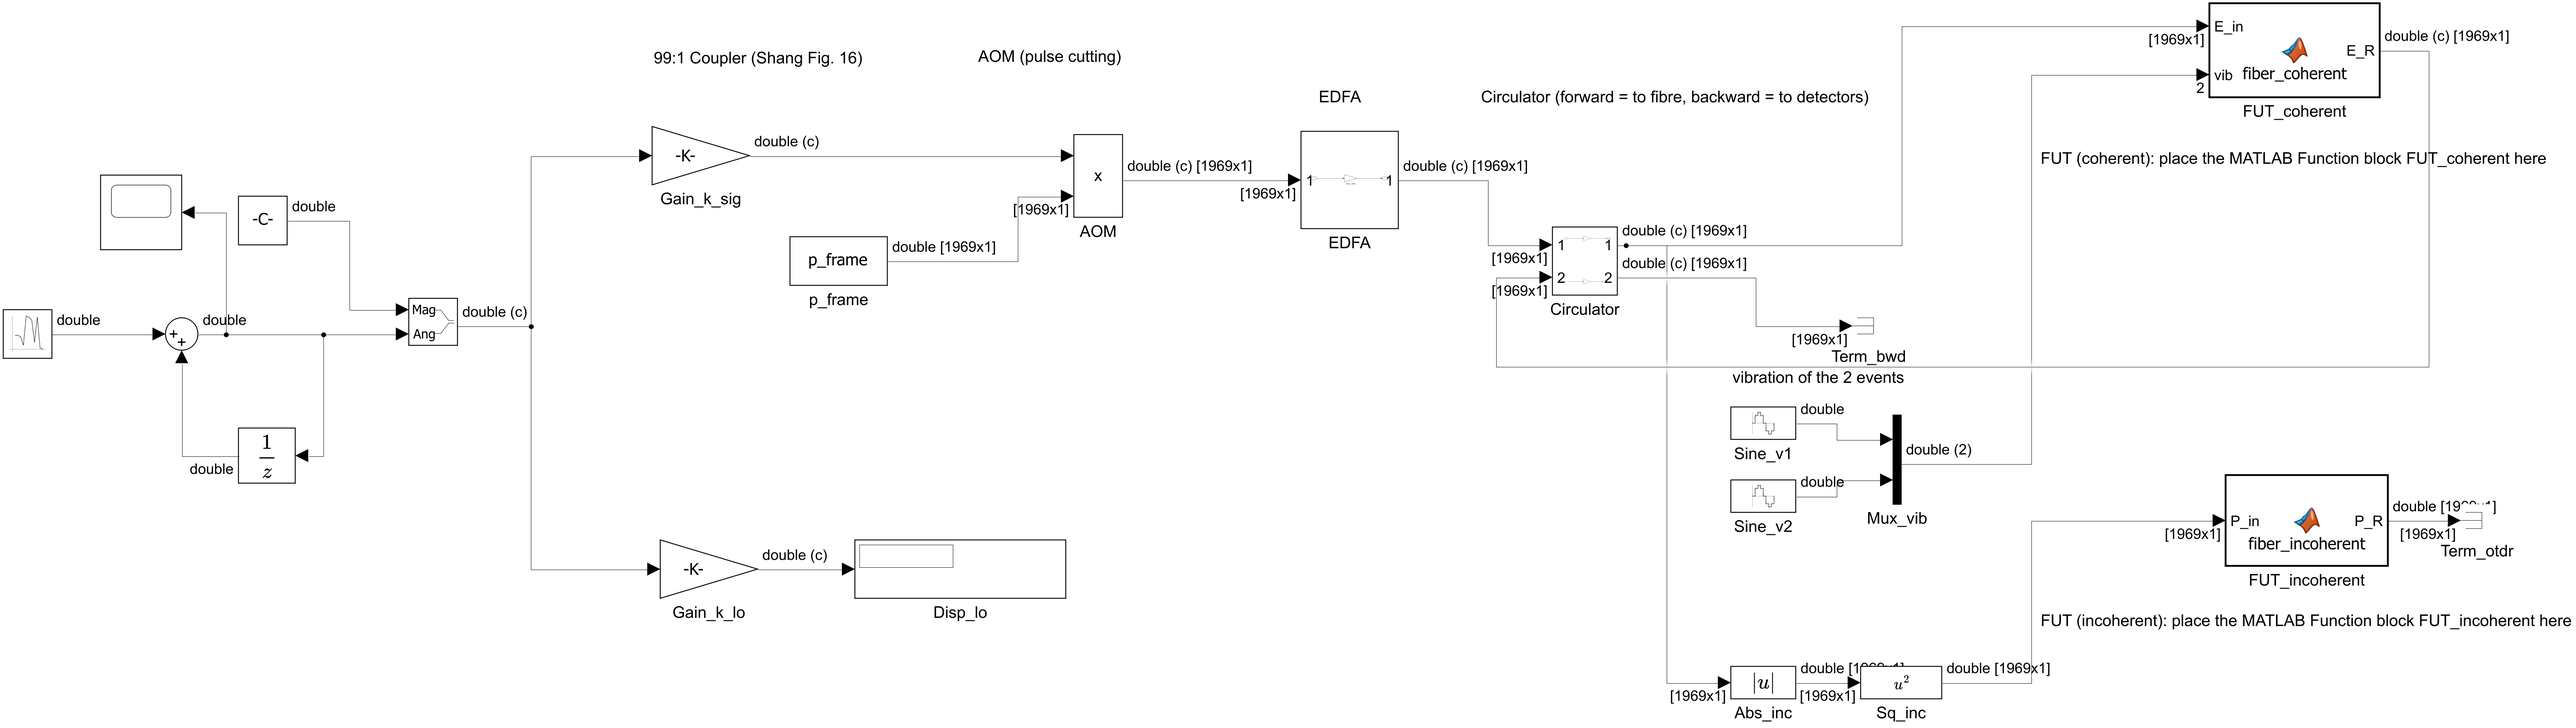
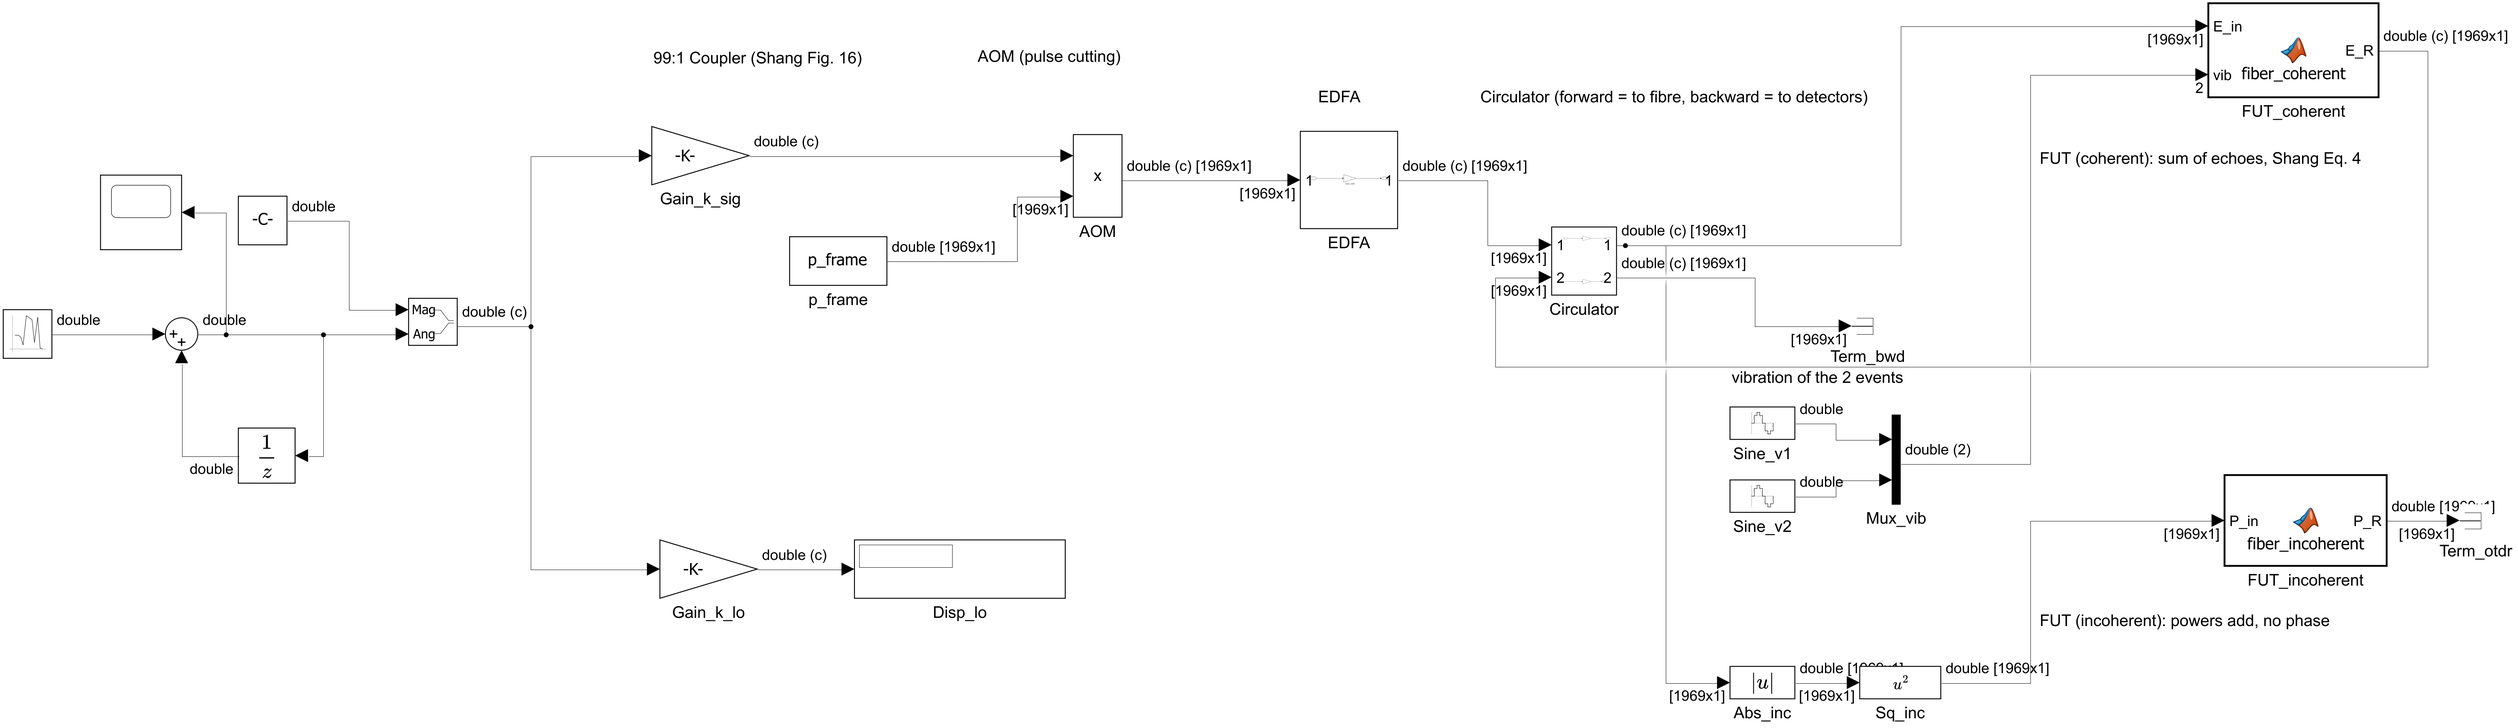
Step 5: fix annotation relabel in step 5B, re-export diagram

diff --git a/scripts/build_step5b.m b/scripts/build_step5b.m
@@ -40,11 +40,15 @@ add_block('simulink/Sinks/Terminator',[mdl '/Term_otdr'],'Position',[po(1)+40 po
 pt = get_param([mdl '/Term_otdr'],'PortHandles');
 add_line(mdl,pi_.Outport(1),pt.Inport(1),'autorouting','on');
 
-% the placeholder notes of part A become real labels
+% the placeholder notes of part A become real labels (an annotation's text is replaced by a new one)
 for an = find_system(mdl,'SearchDepth',1,'FindAll','on','Type','annotation').'
-    t = get_param(an,'PlainText');
-    if startsWith(t,'FUT (coherent)'),   set_param(an,'PlainText','FUT (coherent): sum of echoes, Shang Eq. 4'); end
-    if startsWith(t,'FUT (incoherent)'), set_param(an,'PlainText','FUT (incoherent): powers add, no phase'); end
+    t = get_param(an,'PlainText');  newt = '';
+    if startsWith(t,'FUT (coherent)'),   newt = 'FUT (coherent): sum of echoes, Shang Eq. 4'; end
+    if startsWith(t,'FUT (incoherent)'), newt = 'FUT (incoherent): powers add, no phase'; end
+    if ~isempty(newt)
+        p = get_param(an,'Position');  delete(an);
+        n = Simulink.Annotation(mdl,newt);  n.Position = p(1:2);
+    end
 end
 
 save_system(mdl);
